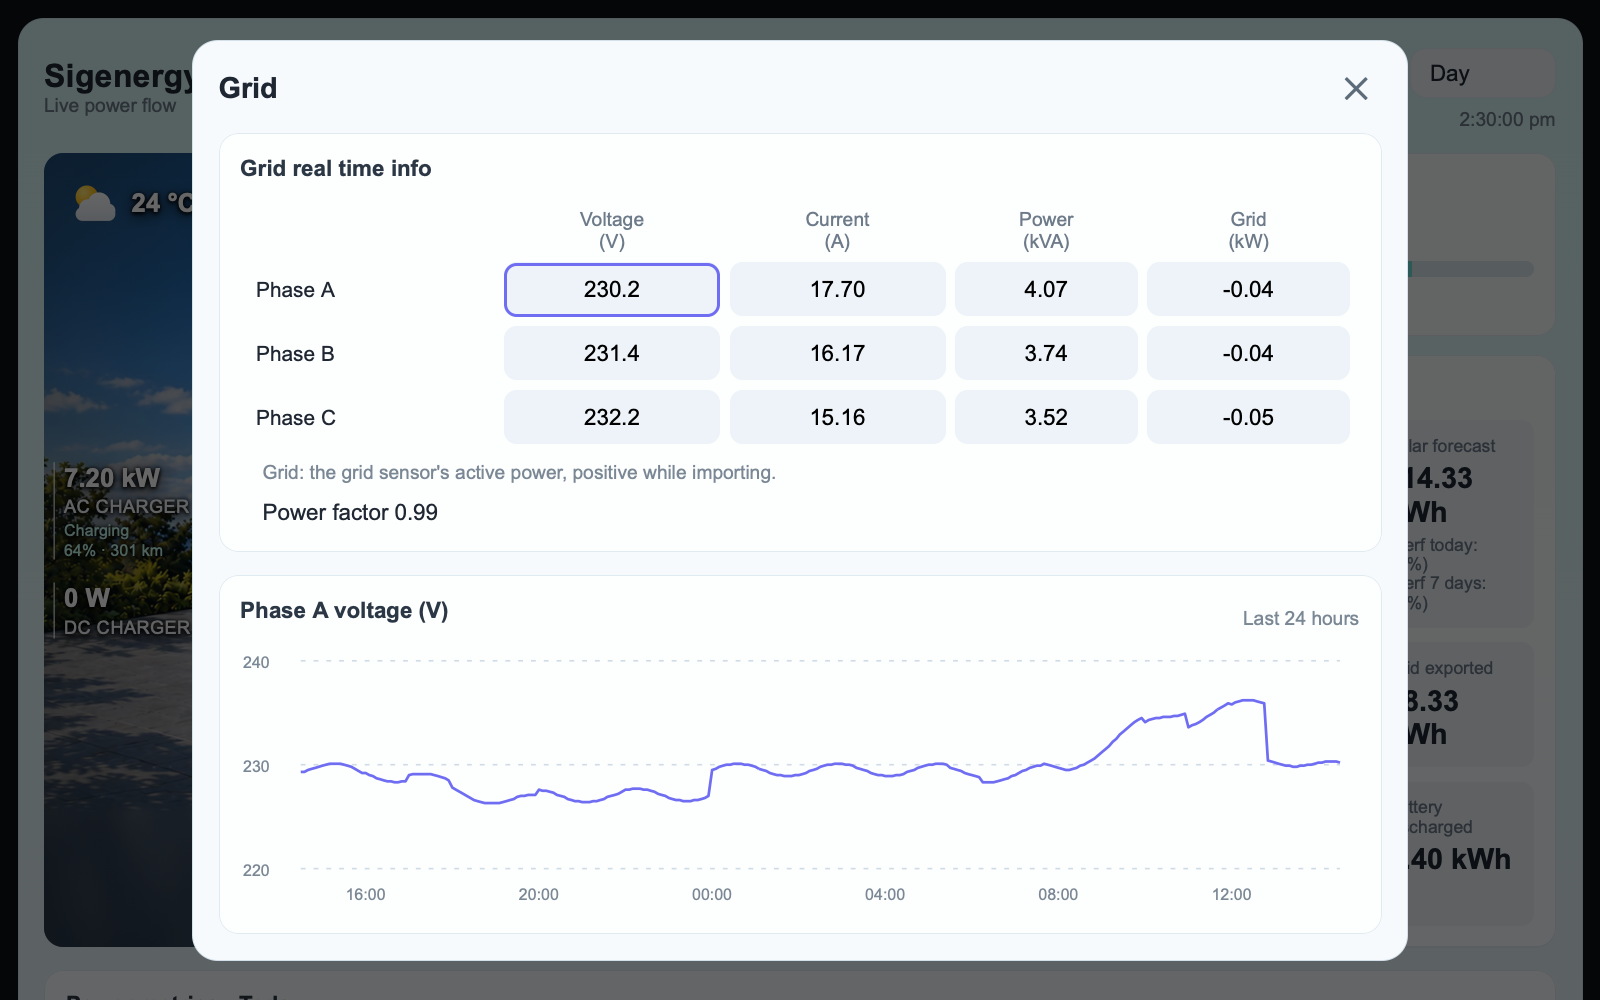
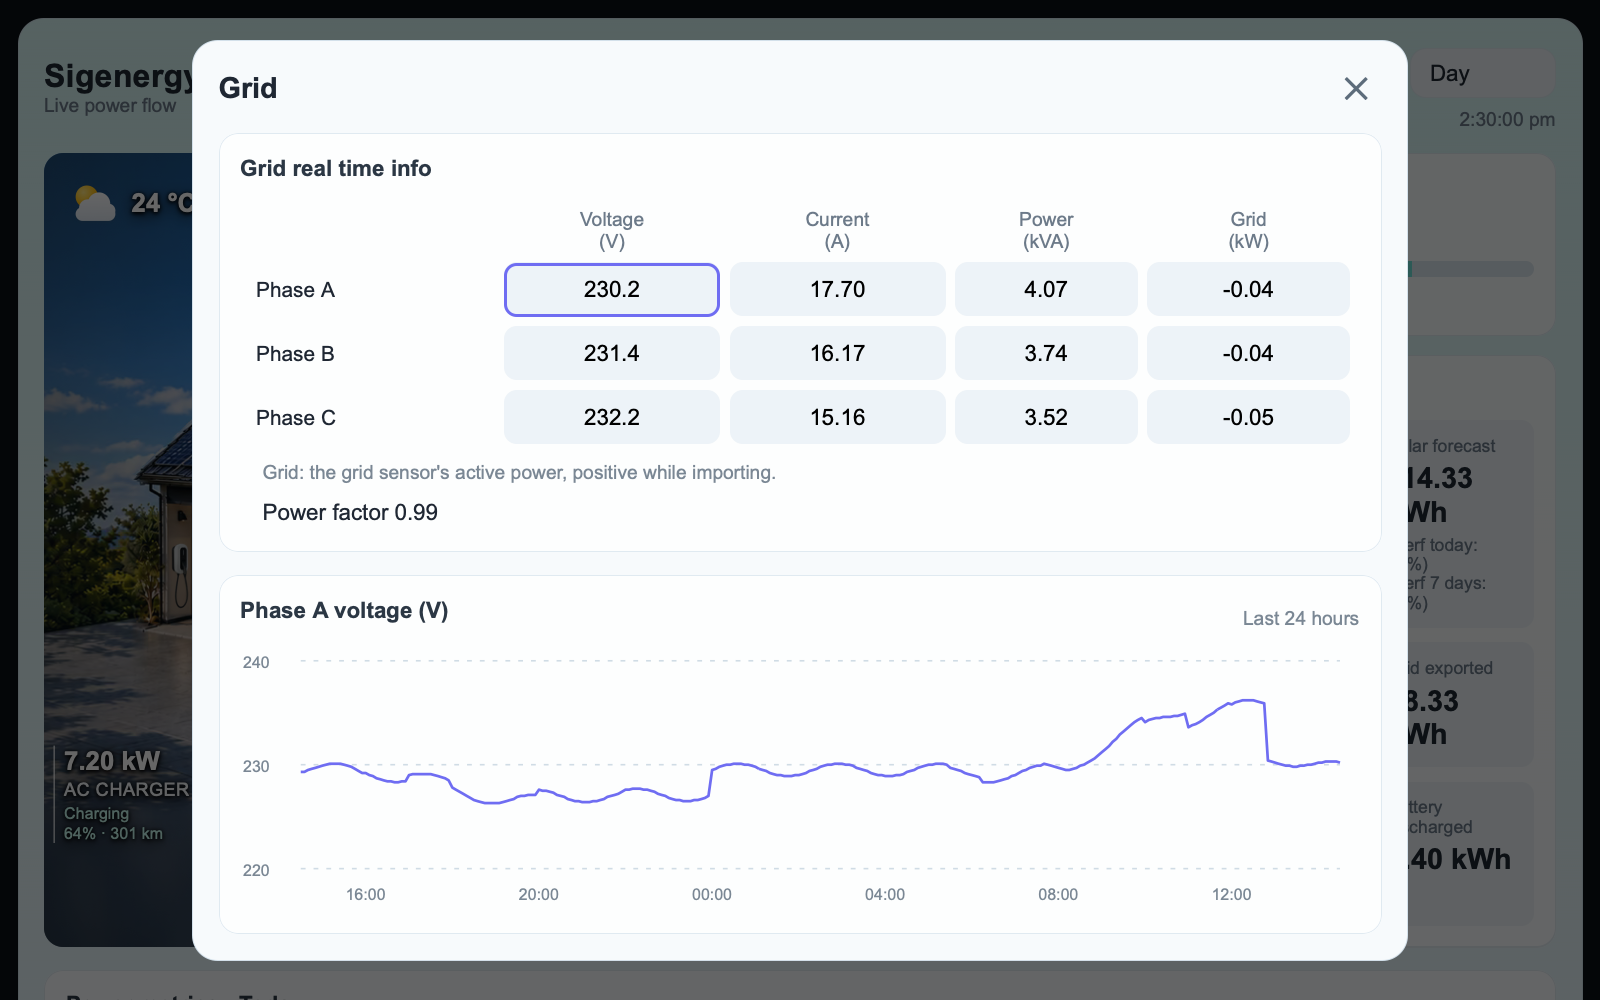
Mark the card file as v75 and refresh the screenshots

Changed region(s): [[0.0312, 0.434, 0.125, 0.651], [0.0312, 0.744, 0.125, 0.837]]

diff --git a/sigenergy-flow-card.js b/sigenergy-flow-card.js
@@ -14,7 +14,7 @@
  * limitations under the License.
  */
 
-/* Sigenergy Flow Card v74 — standalone Home Assistant Lovelace custom card */
+/* Sigenergy Flow Card v75 — standalone Home Assistant Lovelace custom card */
 
 // Scene coordinates: the house photo (1676x557 units) sits between a band above it for the SOLAR and HOME
 // readings and a band below it for SigenStor and GRID. tools/embed-artwork.py builds both bands from

diff --git a/CHANGELOG.md b/CHANGELOG.md
@@ -2,6 +2,14 @@
 
 Each release is tagged `vN` on GitHub; HACS offers the newest release as the update.
 
+## v75
+
+- **Required update for Sigenergy Local Modbus users upgrading to its 2.0**, which stores charger states as keys (`ev_ready`, `charging`) instead of English labels. With earlier versions of the card, a car plugged into an AC charger reporting EV Ready no longer shows in the garage, and the AC charger's status reads `charging` or `not_connected`. The card now reads both: 2.0's keys, with Home Assistant's labels in your language, and 1.x's labels.
+- The card shows a two-car garage: with both an AC and a DC charger, the garage has a second bay on its left, under the main roof lengthened over it with more solar panels. The DC charger's car and wallbox are in the existing bay, the AC charger's in the new one, and the charger readings move onto the driveway, each under its car. This is the new default with both chargers; `garage: single` keeps the single garage, and `garage: double` shows two bays with one charger. On a phone in portrait, the card keeps the single garage, with whichever car is charging.
+- The second car has the first one's options: `car_2` (a car's name, or an entity whose state is one), `car_shown_2`, `car_image_2`, `car_image_night_2` and a `car_charging_2` entity. Without them, it is the same car as the first. The README shows how an automation can tell the card which car is at which charger, with Tessie as the example.
+- A car plugged into the DC charger shows in the garage while it is connected, charging or not (e.g. waiting for solar): the DC charger reports the vehicle's SOC for as long as its gun is in, and its new `dc_charger_state` entity says while a session is being prepared. Before, the car only showed once the charger delivered power.
+- `car_shown` also takes a `binary_sensor` entity, such as the car's "at home" or "plugged in" sensor: the car shows while it is on.
+
 ## v74
 
 - `tap_action` runs a Home Assistant action when the card is tapped, e.g. to open a more detailed dashboard from a summary one. It runs on a tap on the title, which then ends with ›, or anywhere on the card that isn't already tappable: the readings, tiles, charts and picker keep their own behaviour. On the full card, only the title and the house run it.
